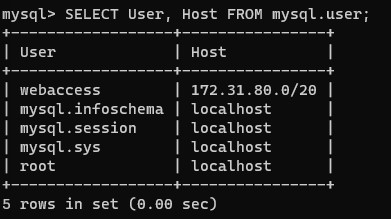
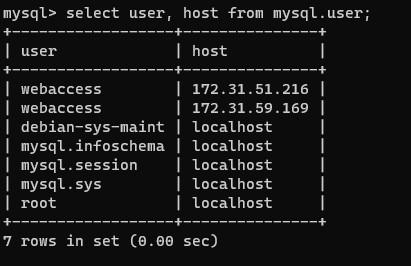
udpated command

diff --git a/project7.md b/project7.md
@@ -86,6 +86,8 @@
 
 
 # **LABs**
+
+![project diagram](./images/project_diagram.jpg)
 ## Implementing a DevOps Tooling Website Solution
 
 ## Step 1 - Prepare the NFS Server
@@ -94,17 +96,29 @@
 
 > Based on your LVM experience from Project 6, __Configure LVM on the Server.__
 
-__format disks using fdisk__
+__Use fdisk utility to create a single partition on each of the 3 disks__
+
+    sudo fdisk /dev/xvdf
+    sudo fdisk /dev/xvfg
+    sudo fdisk /dev/xvfh
 
 __Verify the attached disks were formated properly__
+
+    lsblk 
+
+![lsblk](./images/lsblk.jpg)
 
 __install lvm2__
 
     sudo yum install lvm2
 
+![install lvm](./images/lvm.jpg)
+
 __Check for available partitions__
 
     sudo lvmdiskscan
+
+![lvmdiskscan](./images/lvmdiskscan.jpg)
 
 __Use pvcreate utility to mark each of 3 disks as physical volumes (PVs) to be used by LVM__
 
@@ -118,6 +132,8 @@ __Verify the physical volumes__
 
     sudo pvs
     
+![sudo pvs](./images/sudo_pvs.jpg)
+
 __Use vgcreate utility to add all 3 PVs to a volume group (VG). Name the VG webdata-vg__
 
     sudo vgcreate nasdata-vg /dev/xvdh1 /dev/xvdg1 /dev/xvdf1
@@ -136,12 +152,13 @@ __Use lvcreate utility to create 2 logical volumes.__
     sudo lvcreate -n lv-apps -L 9.5G nasdata-vg
     sudo lvcreate -n lv-logs -L 9.5G nasdata-vg
 
+![lvcreate](./images/lvcreate.jpg)
 
 __Verify logical group__
 
     sudo lvs
 
-![lvcreate](./images/lvcreate.jpg)
+![lvs](./images/lvs.jpg)
 
 ![vgdisplay](./images/vgdisplay_1.jpg)
 ![vgdisplay](./images/vgdisplay_2.jpg)
@@ -153,7 +170,7 @@ __Verify logical group__
 
     sudo mkfs -t xfs /dev/nasdata-vg/lv-apps
 
-    sudo mkfs -t xfs /dev/nasdata-vg/lv-opt
+    sudo mkfs -t xfs /dev/nasdata-vg/lv-logs
 
 ![formatting with the xfs file system](./images/xfs.jpg)
 
@@ -165,7 +182,7 @@ __Verify logical group__
     Mount lv-logs on /mnt/logs – To be used by webserver logs
 
     Mount lv-opt on /mnt/opt – To be used by Jenkins server in Project 8   
-
+---
     sudo mkdir /mnt/apps
     sudo mkdir /mnt/opt
     sudo mkdir /mnt/logs
@@ -242,9 +259,9 @@ __Note:__ To check your 'subnet cidr' - open your EC2 details in AWS web console
 
 > Find the port being used by NFS and create new inbound rules in the security group to allow traffic on that port.
 
-![port](./images/ports.jpg)
-
     rpcinfo -p | grep nfs
+
+![port](./images/ports.jpg)
 
 Note: Open the following ports to allow the NFS server to be accessible from the clients
 TCP port 111, 
@@ -254,7 +271,7 @@ UDP port 2049
 ![nfs_ports](./images/nfs_ports.jpg)
 
 
-### Install and configure a MySQL DBMS to work with remote Web Server
+# Install and configure a MySQL DBMS to work with remote Web Server
 
 > Install mysql server
   
@@ -262,7 +279,7 @@ Update repository
 
   __update 
 
-    sudo dnf update
+    sudo yum update
 
   __install MySQL repository by downloading and installing the appropriate RPM package frm MySQL website__
 
@@ -313,13 +330,17 @@ Update repository
   __Create a database user and name it webaccess__
 
 ```SQL
-     CREATE USER 'webaccess'@'172.31.80.0/20' IDENTIFIED BY 'new_pass';
+    CREATE USER 'webaccess'@'172.31.51.216' IDENTIFIED BY 'mypass';
+
+    CREATE USER 'webaccess'@'172.31.59.169' IDENTIFIED BY 'mypass';
 ```
 
 ![db_user](./images/db_user.jpg)
 
 ```SQL
-    GRANT ALL PRIVILEGES ON tooling.* TO 'webaccess'@'172.31.80.0/20' WITH GRANT OPTION;
+    GRANT ALL PRIVILEGES ON tooling.* TO 'webaccess'@'172.31.51.216' WITH GRANT OPTION;
+
+     GRANT ALL PRIVILEGES ON tooling.* TO 'webaccess'@'172.31.59.169' WITH GRANT OPTION;
 ```
 
 ![db_priviledges](./images/db_priviledges.jpg)
@@ -354,14 +375,18 @@ __Make sure the changes persist on Web server after reboot__
 
 __add the following lines__
 
-    172.31.80.61:/mnt/apps /var/www nfs defaults 0 0
+    172.31.48.161:/mnt/apps /var/www nfs defaults 0 0
 
 __Install Remi's repository, Apache and PHP__
 
 
     sudo yum install httpd -y
+    
+    sudo systemctl start httpd
+    sudo systemctl status httpd
 
 ![install httpd](./images/install_httpd.jpg)
+
 
     sudo dnf install https://dl.fedoraproject.org/pub/epel/epel-release-latest-8.noarch.rpm
 
@@ -419,11 +444,10 @@ __Update the website configuration to connect to the dataase in the "/var/www/ht
 
     mysql -h <databse-private-ip> -u <db-username> -p <db-name> < tooling-db.sql
 
-
 __Create in mysql a new admin user with username: myuser and password: password:__
 
 ```SQL
-    INSERT INTO `users` (`id`, `username`, `password`, `email`, `user_type`, `status`) VALUES (1, 'myuser', 'password', 'user@mail.com', 'admin', '1');
+    INSERT INTO `users` (`id`, `username`, `password`, `email`, `user_type`, `status`) VALUES (1, 'myuser', 'mypass', 'user@mail.com', 'admin', '1');
 ```
 
 __Open the website in your web browser__
